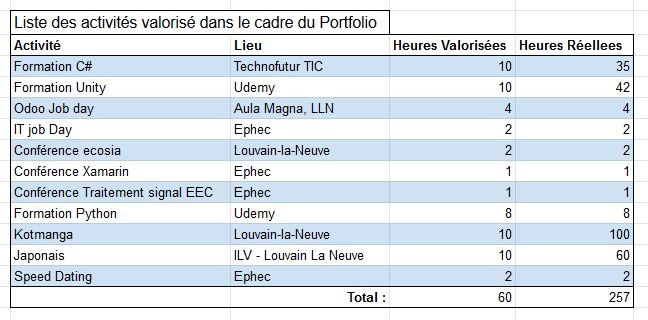
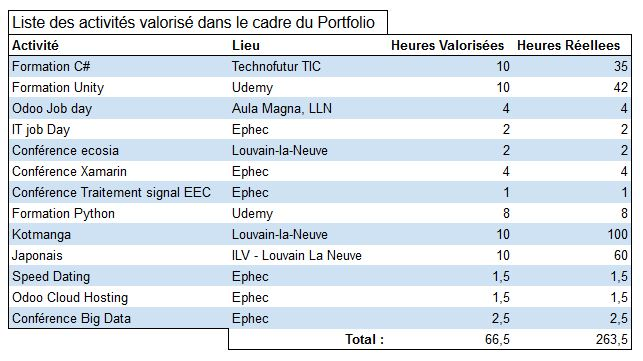
ajout odoo+big data

diff --git a/index.html b/index.html
@@ -277,7 +277,51 @@
 				<a class="tab-content" href="img/portfolio/conf3.jpg">
 					<img class="tab-content" src="img/portfolio/conf3.jpg" alt="">
 				</a>
+        <br><br><br><br>
       </div>
+
+      <div class="container">
+        <div class="section-header">  
+          <h3>Conférence Odoo Cloud Hosting</h3>
+        </div>
+        <div class="container">
+          <p class="section-subtitle"><br>
+          </p>
+          <h4>Principes généraux</h4>
+          <p>Durant cette conférence, nous avons pu avoir un aperçu de l'entreprise de Odoo et de ses services. Nous avons également eu une démonstration en direct de son utilisation.
+          </p>
+          <h4>Déroulement</h4>
+          <p>J'étais très interessée d'assister à cette conférence car Odoo fait parti des employeurs qui m'interesseraient pour l'année prochaine. J'avais déjà une idée du fonctionnement d'Odoo et de sa philosophie car j'étais déjà allée au Odoo Developer Day. Cepandant, avoir une démonstration en direct du produit vendu et avoir ainsi une vision de l'extérieur était très interessant.<br> </p>
+        </div>
+        
+        <a class="tab-content" href="img/portfolio/justificatif.JPG">
+          <img class="tab-content" src="img/portfolio/justificatif.JPG" alt="">
+        </a>
+        <br><br><br><br>
+      </div>
+
+
+      <div class="container">
+        <div class="section-header">  
+          <h3>Conférence Big Data</h3>
+        </div>
+        <div class="container">
+          <p class="section-subtitle"><br>
+          </p>
+          <h4>Principes généraux</h4>
+          <p>Au début du premier quadrimestre de notre troisième année à l'Ephec, nous avons eu la chance de participer a une conférence sur le Big Data du MIC.
+          </p>
+          <h4>Déroulement</h4>
+          <p>Lors de cette conférence, on nous a tout d'abord introduit au concept de donnée, de machine learning et de deep learning. Ensuite, Le conférencié nous a fait faire deux exercices afin d'illustrer ses propos.<br> Le premier exercice utilisait les données des victimes du Titanic. Nous avons, à partir de celles-ci, calculés nos chances de survies si nous avions été passager du Titanic à l'époque.<br> Le second exercice permettait de faire de la reconnaissance d'image afin de différencier des images de pâtes et des images de hot dogs.<br> Cette conférence était passionante. En effet, les deux exercices que nous avons effectués, bien que basiques, étaient parfait afin de bien comprendre de quoi parlait le conférencié. </p>
+        </div>
+        
+        <a class="tab-content" href="img/portfolio/justificatif.JPG">
+          <img class="tab-content" src="img/portfolio/justificatif.JPG" alt="">
+        </a>
+        <br><br><br><br>
+      </div>
+
+
 
     </section>
 
@@ -363,6 +407,9 @@
 				<a class="tab-content" href="img/portfolio/speeddating.jpg">
 					<img class="tab-content" src="img/portfolio/speeddating.jpg" alt="">
 				</a>
+        <a class="tab-content" href="img/portfolio/justificatif.JPG">
+          <img class="tab-content" src="img/portfolio/justificatif.JPG" alt="">
+        </a>
       </div>
       <!-- Container Ends -->
 
